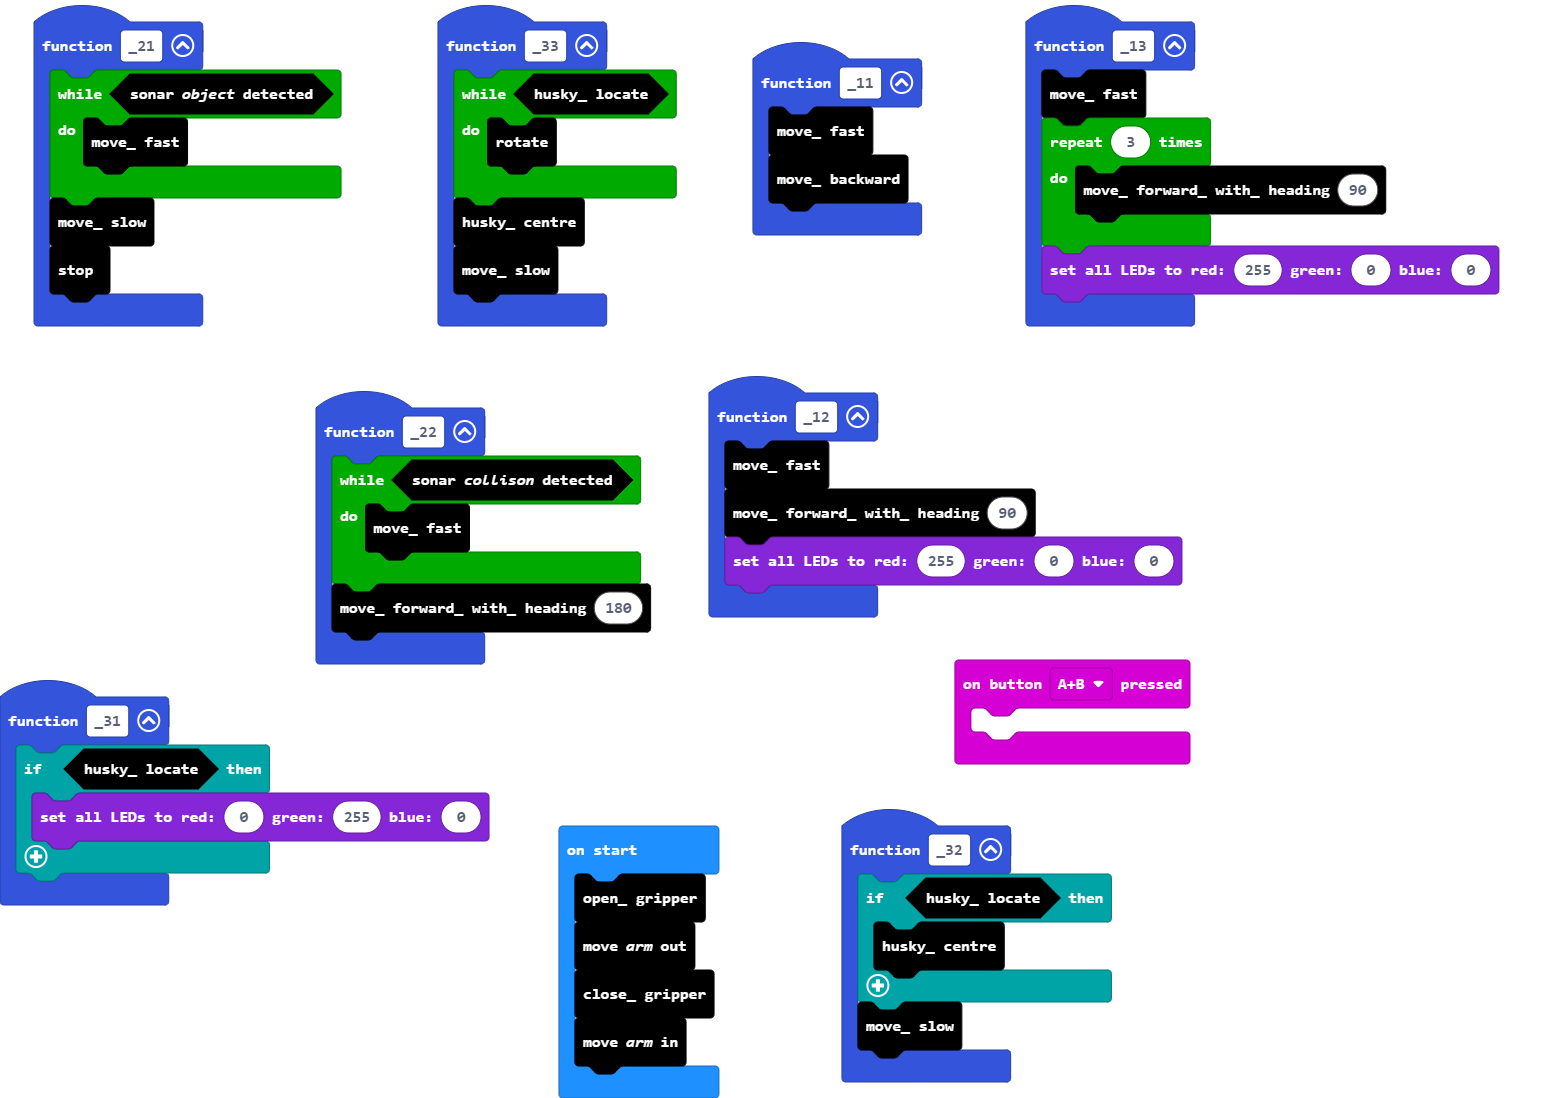
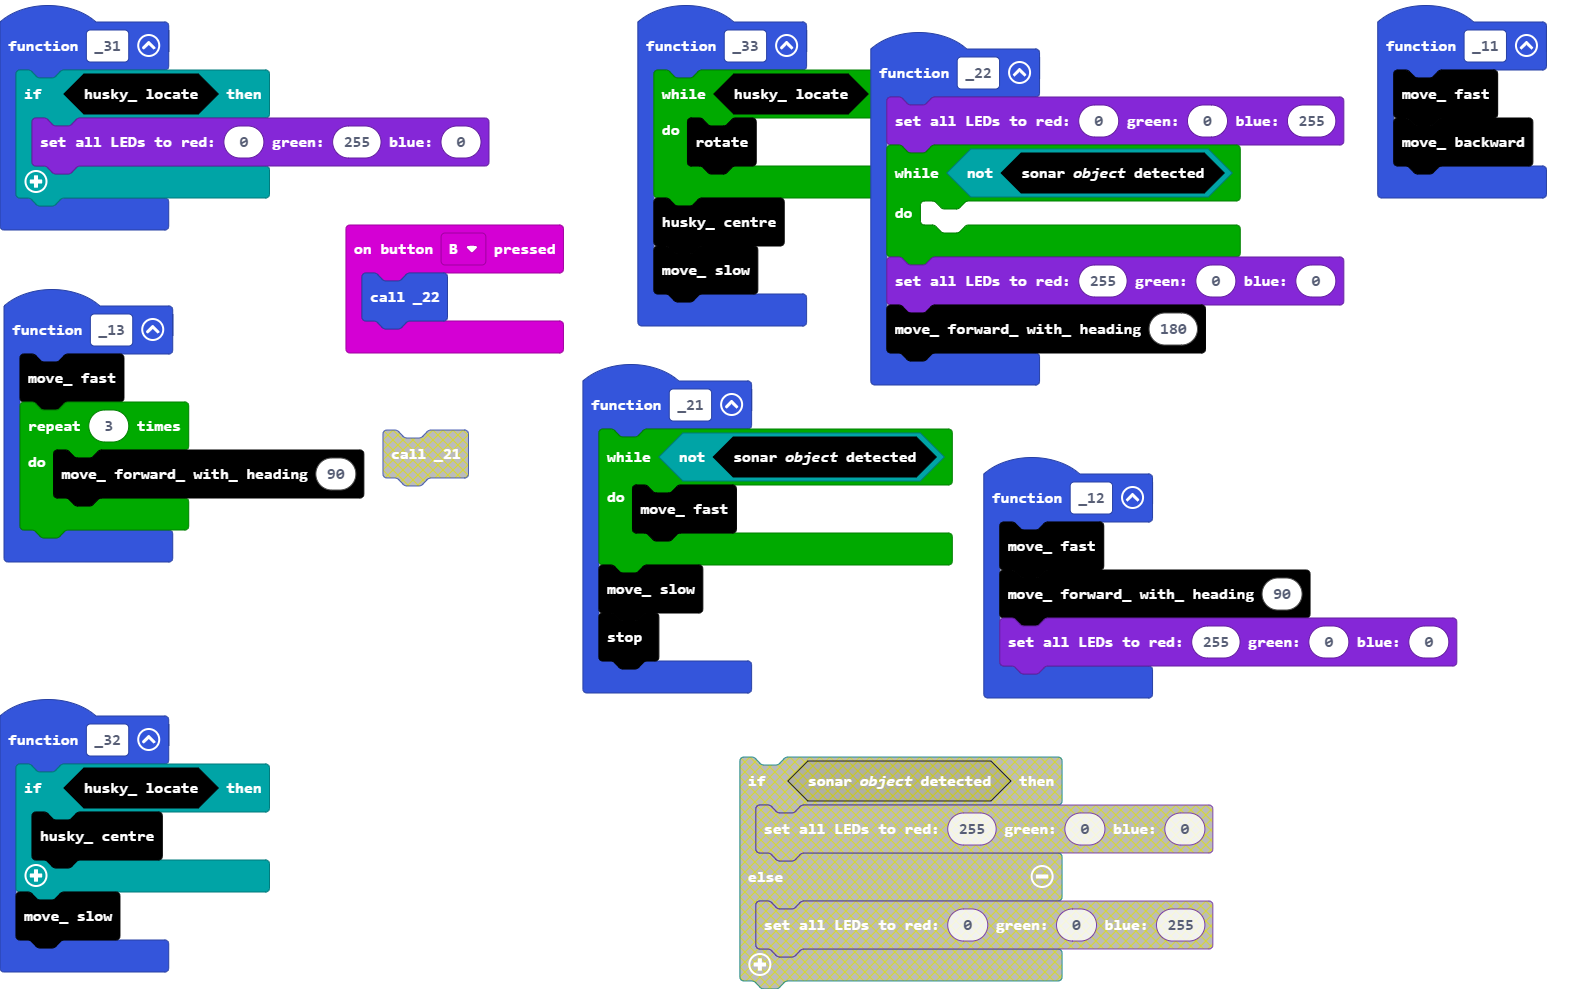
Update main.blocks, main.ts, custom.ts

diff --git a/main.ts b/main.ts
@@ -8,7 +8,6 @@ function _13 () {
     for (let index = 0; index < 3; index++) {
         MTS_Sphero_RVR.Move_Forward_With_Heading(90)
     }
-    sphero.setAllLeds(255, 0, 0)
 }
 function _33 () {
     while (MTS_Sphero_RVR.Husky_Locate()) {
@@ -18,37 +17,35 @@ function _33 () {
     MTS_Sphero_RVR.Move_Slow()
 }
 function _21 () {
-    while (MTS_Sphero_RVR.Sonar_Object_Detected()) {
+    while (!(MTS_Sphero_RVR.Sonar_Object_Detected())) {
         MTS_Sphero_RVR.Move_Fast()
     }
     MTS_Sphero_RVR.Move_Slow()
     MTS_Sphero_RVR.Stop()
 }
 function _22 () {
-    while (MTS_Sphero_RVR.Sonar_Collison_Detected()) {
-        MTS_Sphero_RVR.Move_Fast()
+    sphero.setAllLeds(0, 0, 255)
+    while (!(MTS_Sphero_RVR.Sonar_Object_Detected())) {
+    	
     }
+    sphero.setAllLeds(255, 0, 0)
     MTS_Sphero_RVR.Move_Forward_With_Heading(180)
 }
 function _11 () {
     MTS_Sphero_RVR.Move_Fast()
     MTS_Sphero_RVR.Move_Backward()
 }
-input.onButtonPressed(Button.AB, function () {
-	
-})
 function _32 () {
     if (MTS_Sphero_RVR.Husky_Locate()) {
         MTS_Sphero_RVR.Husky_Centre()
     }
     MTS_Sphero_RVR.Move_Slow()
 }
+input.onButtonPressed(Button.B, function () {
+    _22()
+})
 function _12 () {
     MTS_Sphero_RVR.Move_Fast()
     MTS_Sphero_RVR.Move_Forward_With_Heading(90)
     sphero.setAllLeds(255, 0, 0)
 }
-MTS_Sphero_RVR.Open_Gripper()
-MTS_Sphero_RVR.Move_Arm_Out()
-MTS_Sphero_RVR.Close_Gripper()
-MTS_Sphero_RVR.Move_Arm_In()

diff --git a/custom.ts b/custom.ts
@@ -10,7 +10,7 @@ enum MyEnum {
     //% block="two"
     Two
 }
-
+let degree: number = 0
 /**
  * Custom blocks
  */
@@ -23,7 +23,7 @@ namespace MTS_Sphero_RVR {
     //% blockGap=8
     //% block
     export function Move_Slow () {
-        sphero.drive(10, 0)
+        sphero.drive(40, 0)
         basic.pause(100)
     }
 
@@ -35,7 +35,7 @@ namespace MTS_Sphero_RVR {
     //% block
     export function Move_Fast(): void {
         sphero.drive(40, 0)
-        basic.pause(100)
+        basic.pause(2000)
     }
 
     /**
@@ -46,7 +46,15 @@ namespace MTS_Sphero_RVR {
     //% block
     //% heading.min=0 heading.max=359
     export function Move_Forward_With_Heading(heading: number): void {
-        sphero.drive(40, heading)
+        degree += heading
+        if (degree > 359){
+            degree -= 360
+        }
+        else if (degree < 0){
+            degree += 360
+        }
+        sphero.drive(40, degree)
+        basic.pause(2000)
     }
 
     /**
@@ -58,6 +66,7 @@ namespace MTS_Sphero_RVR {
     //% heading.min=0 heading.max=359
     export function Move_Backward(): void {
         sphero.drive(-40, 0)
+        basic.pause(2000)
     }
 
     /**
